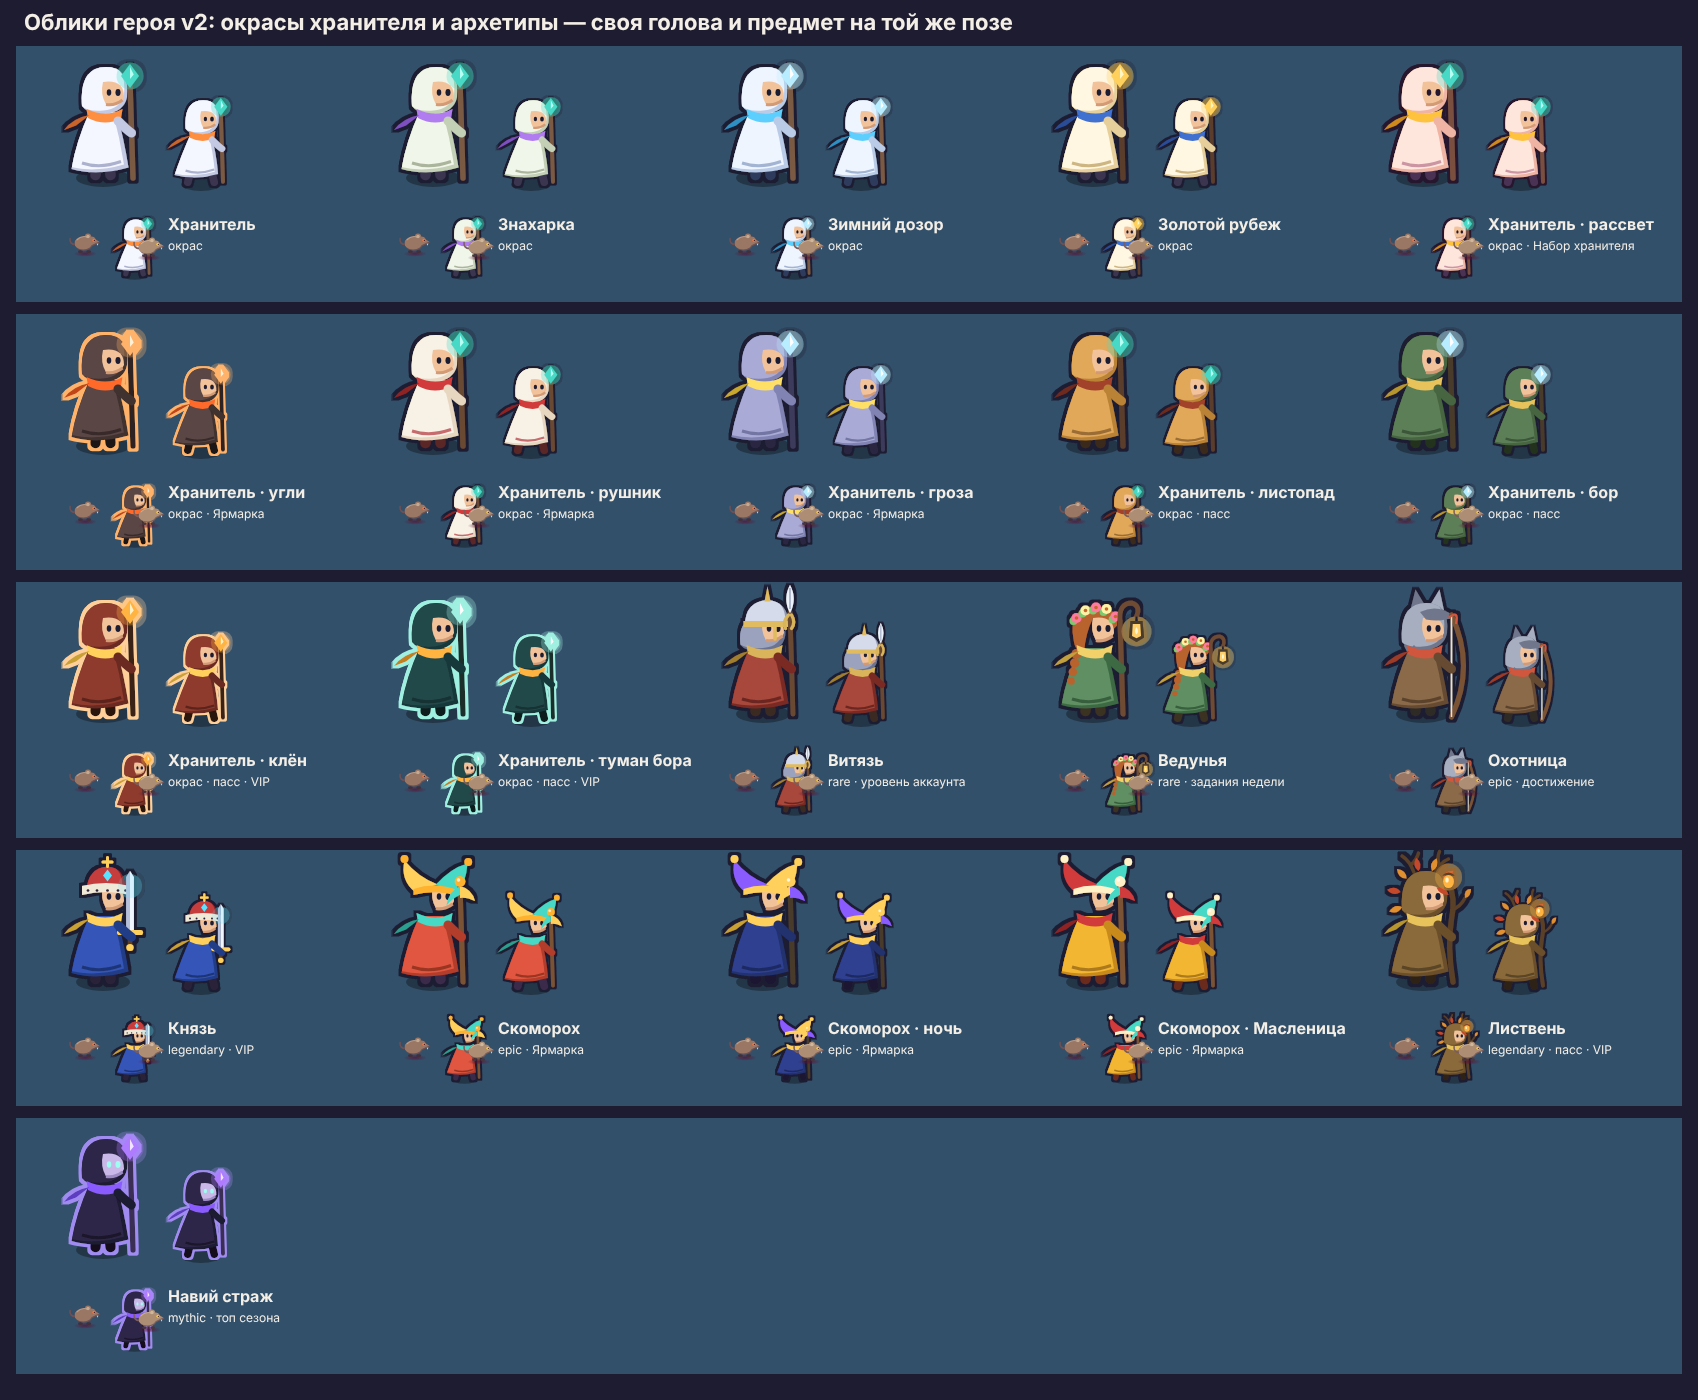
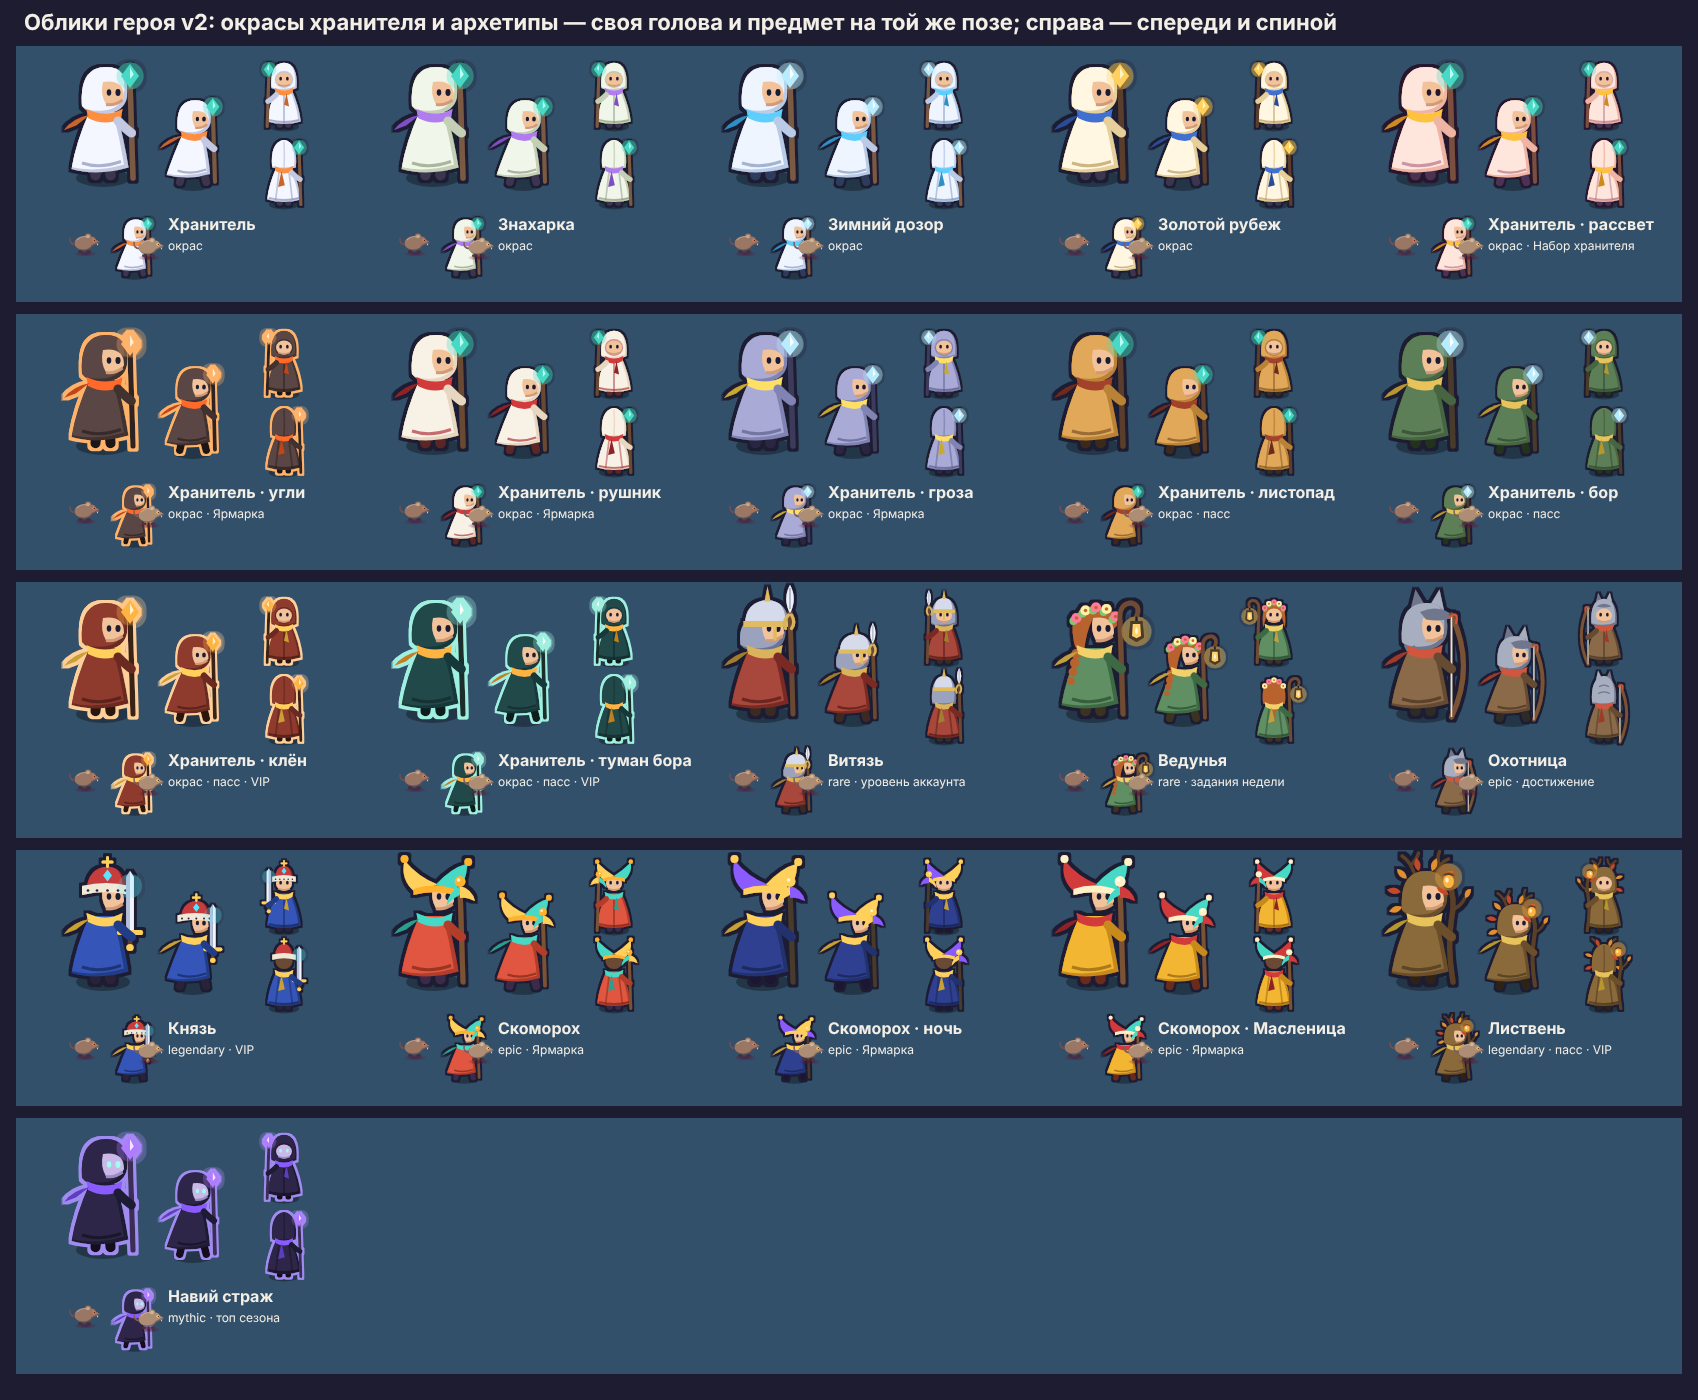
docs(design): Какой вид героя при каком ходе
characters.md §4.1: бок — основной вид, спереди и спиной — только
в пределах 34° от вертикали, с гистерезисом и выдержкой 0,15 с.
Листы героя и обликов показывают виды и четыре стороны в игровом
масштабе. Очередь дизайнера, п. 1 — сделано.

Claude-Session: https://claude.ai/code/session_015G3m1JhDMZvh73qL7bpVmh

diff --git a/design/art/characters.md b/design/art/characters.md
@@ -202,7 +202,7 @@
 ## 4. Направления и состояния
 
 **Ракурс** — вид сбоку в три четверти, как у Vampire Survivors: камера
-сверху, но персонажи «стоят» на земле. **Направлений два: вправо и
+сверху, но персонажи «стоят» на земле. **У врагов направлений два: вправо и
 отражение влево** (`flipX` по знаку скорости). Восемь направлений не нужны:
 у врагов нет атак «в сторону», у героя нет прицеливания — направление
 читается по морде и по движению, а восемь направлений умножили бы атлас
@@ -218,6 +218,45 @@
 | Ранение героя | кадр отдачи + заливка красным | заливка — обратная связь, кадр — характер |
 | Смерть героя | 4 кадра: оседает на колено и рассеивается бирюзой | падение плашмя не влезает в ячейку и читается как «ещё жив» |
 | Покой героя | 2 кадра дыхания | герой стоит часто — неподвижная картинка выглядит паузой |
+
+### 4.1. Герой в четыре стороны (Р143, 31.10.2026)
+
+Герой — единственный, на кого игрок смотрит весь забег, поэтому у него
+четыре стороны: вправо, влево (тот же бок зеркалом), **спереди** и
+**спиной**. Спереди и спиной — свои кадры покоя (2), шага (4) и отдачи (1),
+смерть одна: герой оседает боком в любую сторону.
+
+| Движение | Вид | Кадры | Предмет в руке |
+|---|---|---|---|
+| вправо и по диагонали | бок | `hero/idle0…1`, `hero/walk0…3`, `hero/hurt0` | справа |
+| влево и по диагонали | бок зеркалом (`flipX`) | те же | слева |
+| вниз по экрану | спереди, лицом к игроку | `hero/front/idle0…1`, `walk0…3`, `hurt0` | слева на экране — в правой руке героя |
+| вверх по экрану | спиной | `hero/back/idle0…1`, `walk0…3`, `hurt0` | справа |
+
+Правила выбора — для задачи движка «поза по направлению»:
+
+- **Бок — основной вид.** Спереди или спиной — только когда движение
+  заметно вертикальнее горизонтали: |vy| больше |vx| в 1,5 раза, то есть
+  в пределах 34° от вертикали. Диагональ остаётся боком: у бокового вида
+  читаются посох и шаг, а передний силуэт уже и в толпе теряется быстрее.
+- **Без дрожания.** Новый вид включается, когда направление продержалось
+  0,15 с; шатание джойстика у границы 34° не перебирает виды каждый кадр.
+  Выбор вида — дело рендера, в симуляцию и снимок забега он не входит.
+- **Стоит — смотрит туда же.** Остановился — покой того вида, в котором
+  шёл; отдача — кадр того же вида.
+- **Зеркала у переднего и спинного вида нет.** Предмет в руке у них
+  нарисован на своей стороне; `flipX` сбрасывается при переходе с бока.
+- **Облики.** У каждого облика в своём атласе `atlas-skin-<id>` — те же
+  `hero-<id>/front/…` и `hero-<id>/back/…`, только покой и шаг, как и у
+  бокового вида; отдача — кадр обычного героя.
+
+Головы архетипов анфас и с затылка — те же детали, что в профиль:
+шлем с наносником, венок с косой, волчьи уши, шапка с мехом, колпак с
+бубенцами, рожки Лиственя. Под шапкой со спины — волосы (`hair` палитры
+героя), а не кожа: на 20 px светлый затылок читался вторым лицом. Лист —
+`out/sheet-hero.png` (кадры и четыре стороны в игровом масштабе),
+облики — `out/sheet-skins.png`; поля кадра проверяет
+`src/frame-fit.mjs`.
 
 ## 5. Форматы и вес
 
@@ -246,10 +285,10 @@
 
 | Файл | Кадров | Размер | PNG / WebP | Видеопамять |
 |---|---|---|---|---|
-| `out/atlas-core.png` — герой, враги первых трёх минут, подборы, эффекты | 141 | 1020×896 | 78 КБ | 3,5 МБ |
+| `out/atlas-core.png` — герой в четыре стороны, враги первых трёх минут, подборы, эффекты | 155 | 1020×1012 | 94 КБ | 3,9 МБ |
 | `out/atlas-late.png` — остальные враги, элита, боссы | 92 | 1024×1588 | 113 КБ | 6,2 МБ |
 | `out/atlas-r157.png` — новый контент Р157: пять врагов (Горыныч по фазам), снаряды и следы четырёх оружий с эволюциями, лужа Болотника, метки Кикиморы и корней; грузится с контентом T-0281…T-0290 | 80 | 1008×1716 | 125 КБ | 6,6 МБ |
-| `out/atlas-skin-<id>.png` — облик героя, только свой и по требованию | 6 | ~500×124 | 7–9 КБ | 0,2–0,3 МБ |
+| `out/atlas-skin-<id>.png` — облик героя, только свой и по требованию; бок, спереди и спиной | 18 | ~960×236–264 | 19–24 КБ | 0,9–1,0 МБ |
 | `out/atlas-env.png` — декор и тайники | 33 | 1020×324 | 23 КБ | 1,3 МБ |
 | `out/ground-neutral.webp` — земля, цвет зоны — окраской по вершинам (`environment.md`) | 1 | 512×512 | 4 КБ | 1 МБ |
 

diff --git a/design/art/backlog.md b/design/art/backlog.md
@@ -11,7 +11,7 @@
 
 | # | Работа | Решение | Что сдать | Кому дальше |
 |---|---|---|---|---|
-| 1 | **Герой в 4 стороны** — спереди, спиной и сбоку с зеркалом: шаг 4 кадра, покой 2, отдача; для всех окрасов и архетипов (`hero.mjs`, `palette.mjs`) | Р143 | кадры `hero/<сторона>/…` в атласе `core` и атласах обликов, лист `sheet-hero.png`; в `characters.md` §4 — какая сторона при каком направлении движения | задача движка: поза по направлению |
+| 1 | **Герой в 4 стороны** — спереди, спиной и сбоку с зеркалом: шаг 4 кадра, покой 2, отдача; для всех окрасов и архетипов (`hero.mjs`, `palette.mjs`) | Р143 | кадры `hero/<сторона>/…` в атласе `core` и атласах обликов, лист `sheet-hero.png`; в `characters.md` §4 — какая сторона при каком направлении движения | **сделано 31.10:** `hero/front/…` и `hero/back/…` в `core`, `hero-<id>/front|back/…` в атласах обликов, головы всех архетипов анфас и с затылка; правила выбора вида — `characters.md` §4.1. Дальше — задача движка «поза по направлению» |
 | 2 | **Словесный знак RUBEZH** латиницей тем же рисунком букв, руна Ж рядом (`logo.mjs`) | Р146 | `design-system/brand/wordmark-latin.svg`, `out/brand/wordmark-latin*.svg`; промо для мира — с ним | **сделано 31.10:** `out/brand/wordmark-latin*.svg`, `design-system/brand/wordmark-latin.svg`, руна перед словом — `direction-v2.md` §7.1; выбор по языку — задача оболочки со вторым языком интерфейса |
 | 3 | **Знаки мира для эволюций и «Метеора»** — `starfall`, `tempest`, `blade_whirl`, `frost_crown`, `forge`, `viper`, `meteor`, `fire_rain` (сейчас у них значки набора, `screens/item-icons.tsx`, `WEAPON_FALLBACK_ICONS`) | Р145 | пути в `screens/game-glyphs.tsx` тем же языком, что у базового оружия: сетка 24, контур 2; запасной список после этого пустеет | **сделано 31.10:** восемь значков в `WEAPON_GLYPHS`, запасной список пуст |
 | 4 | **Страж рубежа в размере** — облик Чура при `size` из T-0120: проверить кадр, кайму ранга и знак под ногами в забеге за флагом арта | Р144 | снимок в галерею, при нужде — правка кадров | **сделано 31.10:** проверен в забеге на 320; срез копья краем кадра исправлен запасом `pad` (`src/frame-fit.mjs`), лист `out/sheet-frame-fit.png`, вывод — `characters.md` §2.3 |
